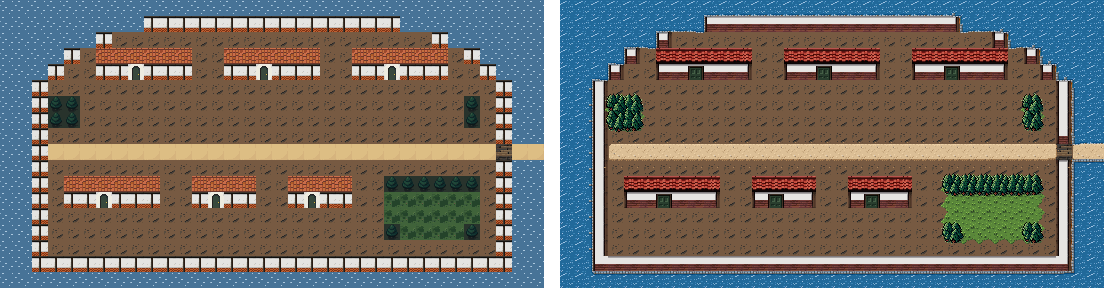
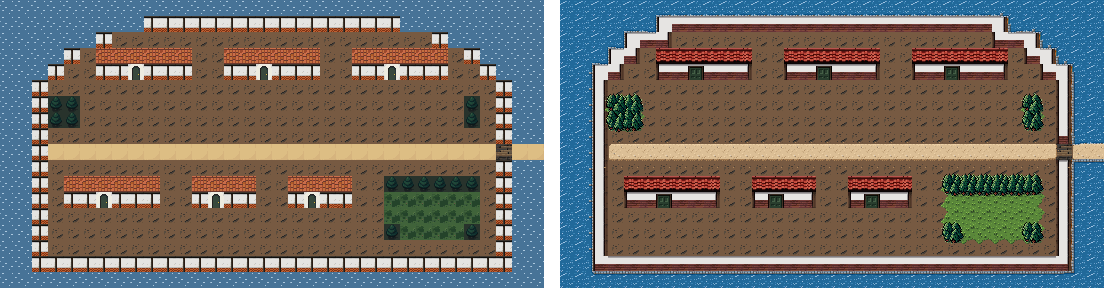
出島の扇形の塀の段をつなぎ、塀の角のテストを足す
段と段の間の海を塀にして、階段状の塀が孤立した柱の欠片に見えないようにした（どちらも通れないので通行は変わらない）。
マップの外に頼らない塀の角を確かめるテストを足し、テストの題名とコメントを期待値に合わせた。

Claude-Session: https://claude.ai/code/session_01TGCvVec4u7mqMe7bmffzeF

Changed region(s): [[0.8623, 0.0312, 0.9855, 0.3125], [0.5236, 0.0312, 0.6467, 0.2812]]

diff --git a/src/data/mapParts.test.ts b/src/data/mapParts.test.ts
@@ -171,7 +171,7 @@ describe('部品で描くタイル', () => {
     expect(townOrder).toContain(key('grass'));
   });
 
-  it('南蛮の町（nanban）は 草 → 道 → 水 → 岩 → 森 の順に重ね、山の岩の下に草を敷き、出島の塀（壁の縦の列と角）を描く', () => {
+  it('南蛮の町（nanban）は 草 → 道 → 水 → 岩 → 森 の順に重ね、山の岩の下に草を敷き、出島の塀（壁の縦の列と、扇形の階段の角）を描く', () => {
     const key = (kind: TileKind) => partsTextureKey('nanban', kind);
     const images = mapTileImages(map(['.~^T,', '.~^T,'], 'nanban'), T);
     const order = images.map((i) => i.key).filter((k) => k.startsWith('parts-'));
@@ -194,7 +194,7 @@ describe('部品で描くタイル', () => {
     expect(roadOrder.lastIndexOf(key('grass'))).toBeLessThan(roadOrder.indexOf(key('road')));
     expect(roadOrder.lastIndexOf(key('road'))).toBeLessThan(roadOrder.indexOf(key('water')));
 
-    // 出島の塀: 縦の列は上下だけ、角は上と左がつながる。家の屋根・壁・戸と、門の床（_）は共通の 1 枚の画像
+    // 出島の塀: 縦の列は上下だけがつながる（左下の (1,2) の下はマップの外で、仲間とみなす）。家の屋根・壁・戸と、門の床（_）は共通の 1 枚の画像
     const town = mapTileImages(map(['~W.RR~', '~W.WD~', '~WW_W~'], 'nanban'), T);
     const at = (k: string, x: number, y: number) => town.find((i) => i.key === k && i.x === x * T && i.y === y * T)?.frame;
     expect(at(key('wall'), 1, 1)).toBe(edgeMask(true, false, true, false));
@@ -203,6 +203,13 @@ describe('部品で描くタイル', () => {
     expect(at(key('wall'), 3, 1)).toBe(edgeMask(false, true, false, false));
     expect(town).toContainEqual({ key: 'tile-floor', x: 3 * T, y: 2 * T });
     expect(town).toContainEqual({ key: 'tile-nanban-door', x: 4 * T, y: T });
+
+    // 扇形の塀の階段: マップの外に頼らない角。段の角は右と下、段の内側は上と左がつながる
+    const fan = mapTileImages(map(['~~~~~', '~~WWW', '~WW..', '~W...', '~~~~~'], 'nanban'), T);
+    const fanAt = (x: number, y: number) => fan.find((i) => i.key === key('wall') && i.x === x * T && i.y === y * T)?.frame;
+    expect(fanAt(2, 1)).toBe(edgeMask(false, true, true, false));
+    expect(fanAt(1, 2)).toBe(edgeMask(false, true, true, false));
+    expect(fanAt(2, 2)).toBe(edgeMask(true, false, false, true));
   });
 
   it('洞窟（cave）は 水 → 岩 の順に床の上へ重ね、橋（道）は川と岩壁の側にだけ欄干を出す', () => {

diff --git a/src/data/maps.ts b/src/data/maps.ts
@@ -3161,10 +3161,10 @@ MAPS.dejima = {
   areaLevel: 19,
   rows: [
     '~~~~~~~~~~~~~~~~~~~~~~~~~~~~~~~~~~',
-    '~~~~~~~~~WWWWWWWWWWWWWWWW~~~~~~~~~',
-    '~~~~~~W....................W~~~~~~',
-    '~~~~W.RRRRRR..RRRRRR..RRRRRR.W~~~~',
-    '~~~W..WWDWWW..WWDWWW..WWDWWW..W~~~',
+    '~~~~~~WWWWWWWWWWWWWWWWWWWWWW~~~~~~',
+    '~~~~WWW....................WWW~~~~',
+    '~~~WW.RRRRRR..RRRRRR..RRRRRR.WW~~~',
+    '~~WW..WWDWWW..WWDWWW..WWDWWW..WW~~',
     '~~W............................W~~',
     '~~WTT........................T.W~~',
     '~~WTT........................T.W~~',

diff --git a/public/assets/README.md b/public/assets/README.md
@@ -366,7 +366,7 @@ ZIP の番号はファイル名の末尾の通し番号（0 から 15 の 16 枚
 
 2 回目で採用。作り直しの理由: 1 回目（aef1603a-8194-4463-acad-afb4c89a5bd2）はどの候補も扉が壁の真ん中にあり、「扉は左寄り、右半分は無地」を満たさなかった。2 回目（c98cfb31-48d6-4e91-8f89-1fb8836203f6、1 回目の候補 8 を参照）は扉の位置を座標（x = 6〜18）で書いた。sato の経験から、最初から `no_background: false` にした（白壁が透明に抜けなかった）。
 
-マップの文字は、長崎の通れるマス（草 `,` → 地面 `.`）だけを塗り直した（17 マス。全マスの blocked が変わらないことを確かめた）: 家と家の間の 1 マスの草、壁・戸の真下の草、家の前の地面の左右の草を地面にした。出島は前から家の前が地面なので変えていない。
+マップの文字は、長崎の通れるマス（草 `,` → 地面 `.`）だけを塗り直した（17 マス。全マスの blocked が変わらないことを確かめた）: 家と家の間の 1 マスの草、壁・戸の真下の草、家の前の地面の左右の草を地面にした。出島は前から家の前が地面なので、地面・草は変えていない。出島の扇形の斜めの塀は、`W` が 1 マスずつ離れた階段で、辺の部品では孤立した短い柱の欠片に見えたので、段と段の間の海（`~`）を塀（`W`）にしてつないだ（14 マス。どちらも通れないので blocked は変わらない）。
 
 | 部品 | ジョブ ID と候補 | 切り方 |
 | --- | --- | --- |
